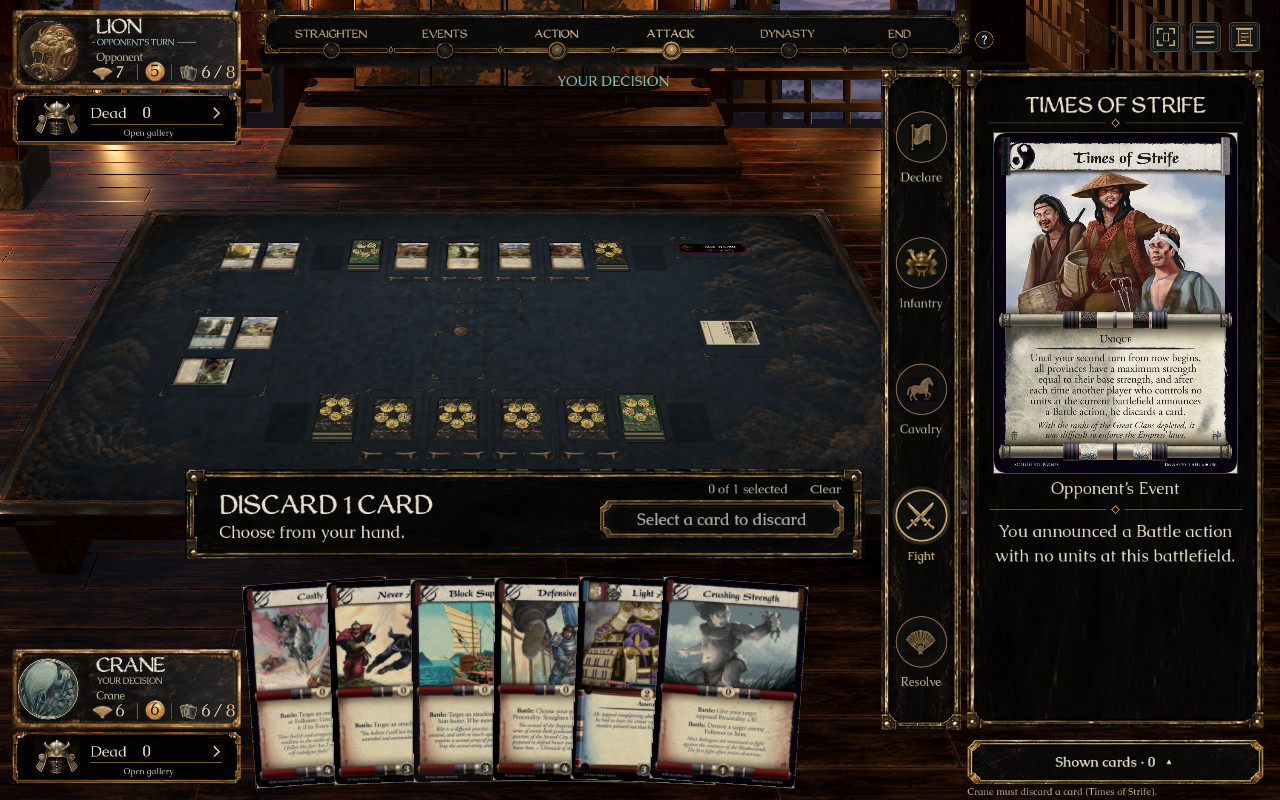
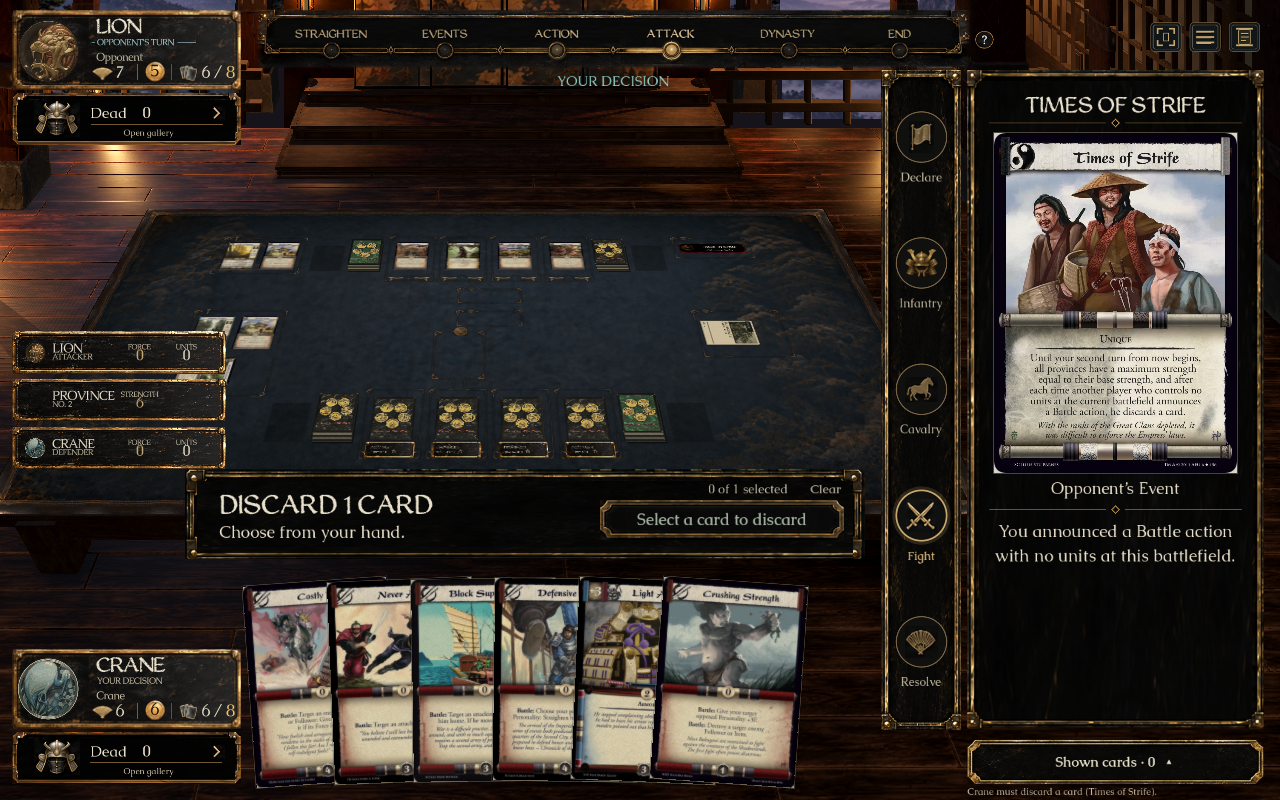
Direct play from the hand: confirm first, assume the single legal action, selectable action text
Selecting a playable hand card asks to confirm play; an automatic action then plays with
nothing else chosen, others continue to performer/target/payment. Cards with several legal
actions list each as clickable action text. Plans Within Plans' armed state is exposed to its
owner so its Limited action is assumed.

Claude-Session: https://claude.ai/code/session_01PrhtAooqPUJRqFmsAknmcR

Changed region(s): [[0.0, 0.4062, 0.1875, 0.5938], [0.2812, 0.5312, 0.4688, 0.5938]]

diff --git a/src/L5R.Client/Main.DirectPlay.cs b/src/L5R.Client/Main.DirectPlay.cs
@@ -1,0 +1,134 @@
+using Godot;
+using L5R.Core;
+
+namespace L5R.Client;
+
+/// <summary>One distinct action a selected card can legally take now. Variants differ only by performer, target or alternative cost.</summary>
+internal sealed record PlayChoice(string Key, ActionOption Option, ActionOption[] Variants);
+
+public partial class Main
+{
+    // The card and action the player is being asked to confirm. Held as a key, not an option, so a refreshed snapshot re-resolves it.
+    private (string CardId, string Key)? _playPrompt;
+
+    private static string PlayKey(ActionOption option) => option.Type + ":" + (option.Command?.AbilityId ?? option.AlternativeCost?.AbilityId ?? "");
+
+    private bool IsOwnHandCard(string? id) => id is not null && FindCard(id) is { Zone: Zone.Hand } card && card.OwnerId == View.ViewerId;
+
+    /// <summary>The distinct legal actions of a card. The engine already disables an action that is out of phase or lacks its performer, so an enabled option is a legal one.</summary>
+    private PlayChoice[] PlayChoices(CardView card) => Actions
+        .Where(a => a.Enabled && a.CardId == card.Id && a.Command is not null && a.Type is "equip" or "playStrategy" or "useAbility")
+        .GroupBy(PlayKey).Select(g => new PlayChoice(g.Key, g.First(), g.ToArray())).ToArray();
+
+    private static bool IsLimited(PlayChoice choice) =>
+        choice.Option.Command?.AbilityId is { } id && AbilityCatalog.All.TryGetValue(id, out var ability) && ability.Timing.Contains("Limited", StringComparison.Ordinal);
+
+    /// <summary>The action to assume: the only legal one, or, while Plans Within Plans is armed, the Limited action it permits. Otherwise the player picks.</summary>
+    private PlayChoice? AssumedPlay(PlayChoice[] choices)
+    {
+        if (choices.Length == 1) return choices[0];
+        if (View.Players.Single(p => p.Id == View.ViewerId).PlansWithinPlansArmed && choices.Count(IsLimited) == 1) return choices.Single(IsLimited);
+        return null;
+    }
+
+    /// <summary>Selecting a playable hand card starts the play flow without a trip through the sidebar's action list.</summary>
+    private void BeginDirectPlay(CardView card)
+    {
+        _playPrompt = null;
+        if (!IsOwnHandCard(card.Id) || card.ActionLocked || View.PendingChoice is not null || View.WinnerId is not null || View.PriorityPlayerId != View.ViewerId || _chosen is not null) return;
+        if (AssumedPlay(PlayChoices(card)) is { } choice) _playPrompt = (card.Id, choice.Key);
+    }
+
+    private void BeginPlayPrompt(ActionOption option)
+    {
+        if (option.CardId is null || _session.Busy || PresentationBusy) return;
+        _playPrompt = (option.CardId, PlayKey(option));
+        RenderInspector(); RenderPhaseActions(); Highlight();
+    }
+
+    private PlayChoice? PromptedChoice() =>
+        _playPrompt is { } prompt && FindCard(prompt.CardId) is { } card && IsOwnHandCard(card.Id) ? PlayChoices(card).FirstOrDefault(c => c.Key == prompt.Key) : null;
+
+    /// <summary>True when playing the action needs a performer, target, province, movement, cost payment or alternative cost. Otherwise confirming plays it outright.</summary>
+    private bool NeedsFurtherInput(PlayChoice choice)
+    {
+        var option = choice.Option;
+        return NeedsTargetPick(option) || option.TargetIds is { Length: > 0 } || option.Slots is not null || IsProvinceTarget(option) || option.Movement is not null
+            || HasAttackTargets(option) || option.Attack is not null || option.AlternativeCost is not null || option.Gold is { Cost: > 0 } || option.Gold is { Kind: GoldCostKind.Variable }
+            || option.TargetGold is not null || choice.Variants.Select(v => v.Command?.PerformerId).Distinct().Count() > 1 || option.Command?.CardIds is not null;
+    }
+
+    private bool RenderPlayPrompt()
+    {
+        if (PromptedChoice() is not { } choice || FindCard(_playPrompt!.Value.CardId) is not { } card) { _playPrompt = null; return false; }
+        var others = PlayChoices(card).Where(c => c.Key != choice.Key).ToArray();
+        var panel = new PanelContainer(); panel.AddThemeStyleboxOverride("panel", SidebarSkin.Inset());
+        var box = new VBoxContainer(); box.AddThemeConstantOverride("separation", 8); panel.AddChild(box); _inspector.AddChild(panel);
+        box.AddChild(Palette.Text("PLAY THIS CARD?", 12, Palette.Gold));
+        box.AddChild(Palette.Wrapped(card.Definition?.Name ?? "Card", 22));
+        box.AddChild(Palette.Wrapped(Placard(choice.Option), 17, Palette.Gold));
+        box.AddChild(Palette.Wrapped(NeedsFurtherInput(choice)
+            ? "Confirm to begin. You then choose any performer, target and payment."
+            : "Nothing else to choose. Confirm to play it.", 14, Palette.PaperDim));
+        foreach (var other in others)
+        {
+            var option = other.Option;
+            var switchTo = SidebarSkin.Button("Play instead: " + Placard(option), () => BeginPlayPrompt(option));
+            switchTo.AutowrapMode = TextServer.AutowrapMode.WordSmart; box.AddChild(switchTo);
+        }
+        var confirm = SidebarSkin.Button("Confirm play", ConfirmPlay, true); confirm.Disabled = _session.Busy;
+        _decisionActions.AddChild(confirm);
+        _decisionActions.AddChild(SidebarSkin.Button("Cancel", CancelChoice));
+        return true;
+    }
+
+    private void ConfirmPlay()
+    {
+        if (PromptedChoice() is not { } choice) { _playPrompt = null; RenderInspector(); return; }
+        _playPrompt = null;
+        if (!NeedsFurtherInput(choice) && choice.Option.Command is { } command) { _ = Submit(command); return; }
+        Choose(choice.Option);
+    }
+
+    /// <summary>A card with several legal actions lists each as a highlightable, clickable block under its printed text; a click begins that action.</summary>
+    private void AddActionTextBlocks(VBoxContainer details, CardView card)
+    {
+        if (_chosen is not null || _playPrompt is not null || View.PendingChoice is not null || !IsOwnHandCard(card.Id)) return;
+        var choices = PlayChoices(card);
+        if (choices.Length < 2) return;
+        details.AddChild(Palette.Text("CHOOSE AN ACTION", 11, Palette.Gold));
+        foreach (var choice in choices)
+        {
+            var option = choice.Option;
+            var block = new Button
+            {
+                Text = Placard(option),
+                Flat = false,
+                Alignment = HorizontalAlignment.Left,
+                AutowrapMode = TextServer.AutowrapMode.WordSmart,
+                FocusMode = Control.FocusModeEnum.None,
+                CustomMinimumSize = new Vector2(0, 40),
+                MouseDefaultCursorShape = Control.CursorShape.PointingHand,
+                TooltipText = "Click to play this action. You confirm before anything happens."
+            };
+            block.SetMeta("action_text_block", true);
+            block.AddThemeFontSizeOverride("font_size", 16);
+            foreach (var state in new[] { "normal", "pressed", "hover", "focus" })
+                block.AddThemeStyleboxOverride(state, new StyleBoxFlat
+                {
+                    BgColor = state == "hover" ? new Color(Palette.Gold, .16f) : new Color(1, 1, 1, .03f),
+                    BorderColor = state == "hover" ? Palette.Gold : new Color(Palette.Gold, .35f),
+                    BorderWidthLeft = 2,
+                    BorderWidthRight = 1,
+                    BorderWidthTop = 1,
+                    BorderWidthBottom = 1,
+                    ContentMarginLeft = 10,
+                    ContentMarginRight = 8,
+                    ContentMarginTop = 6,
+                    ContentMarginBottom = 6
+                });
+            block.Pressed += () => BeginPlayPrompt(option);
+            details.AddChild(block);
+        }
+    }
+}

diff --git a/src/L5R.Client/Main.DirectPlayCapture.cs b/src/L5R.Client/Main.DirectPlayCapture.cs
@@ -1,0 +1,82 @@
+using Godot;
+using L5R.Core;
+using System.Reflection;
+
+namespace L5R.Client;
+
+public partial class Main
+{
+    private bool _directPlayStarted;
+
+    private void ProcessDirectPlayCapture(double delta)
+    {
+        _captureClock += delta; if (_directPlayStarted || _captureClock < 1.5) return;
+        _directPlayStarted = true; _ = CheckDirectPlay();
+    }
+
+    private IEnumerable<Button> ActionTextBlocks() => _inspector.FindChildren("*", "Button", true, false).OfType<Button>().Where(b => b.HasMeta("action_text_block"));
+
+    private async Task LoadDirectPlay(Action<MatchState> build, int seat = 0)
+    {
+        var state = MatchEngine.CreatePublishedTestMatch(42).State;
+        foreach (var p in state.Players) { foreach (var id in p.Hand) state.Cards.Remove(id); p.Hand.Clear(); p.TurnsTaken = 2; }
+        state.ActivePlayerId = state.PriorityPlayerId = 0; state.PendingChoice = null;
+        build(state);
+        var engine = (MatchEngine)typeof(MatchEngine).GetMethod("FromTestState", BindingFlags.NonPublic | BindingFlags.Static)!.Invoke(null, [state])!;
+        await LoadSupportFixture(engine, seat);
+    }
+
+    private static void BattleSetup(MatchState state)
+    {
+        state.Phase = Phase.Battle; state.CurrentBattleProvince = 0; state.UnresolvedBattlefields = [0]; state.BattleNumber = 1;
+        SupportFixtureCard(state, 229, 0, Zone.Battlefield, 0);               // Akodo Kisho, unbowed Paragon
+        SupportFixtureCard(state, 3636, 1, Zone.Battlefield, 0);              // an enemy unit at the battlefield
+    }
+
+    private async Task CheckDirectPlay()
+    {
+        try
+        {
+            // 1. One legal, automatic action: selecting the card asks to confirm, and confirming plays it with nothing else chosen.
+            await LoadDirectPlay(s => { s.Phase = Phase.Action; SupportFixtureCard(s, 7862, 0, Zone.Hand); });
+            var tale = View.Players[0].Hand.Single();
+            var honor = View.Players[0].Honor;
+            SelectCard(tale); await EventFrames(4);
+            SupportRequire(_playPrompt is not null && _chosen is null, "Selecting a playable card did not ask to confirm play");
+            SupportRequire(StabilizationText(_inspector).Contains("PLAY THIS CARD?") && StabilizationText(_inspector).Contains("Nothing else to choose"), "Automatic action should say nothing else needs choosing");
+            var cancel = StabilizationButtons(_decisionActions).Single(b => b.Text == "Cancel"); cancel.EmitSignal(BaseButton.SignalName.Pressed); await EventFrames(2);
+            SupportRequire(_playPrompt is null && _chosen is null && View.Players[0].Honor == honor, "Cancel must back out without acting");
+            SelectCard(tale); await EventFrames(2);
+            await SupportClick(StabilizationButtons(_decisionActions).Single(b => b.Text == "Confirm play")); await WaitDecisionPresentation(); await EventFrames(6);
+            SupportRequire(View.Players[0].Honor == honor + 1 && _chosen is null, "Confirming Tell the Tale did not gain 1 Honor directly");
+
+            // 2. Two legal actions: the card lists both as clickable action text; a click asks to confirm, then continues to targets.
+            await LoadDirectPlay(s => { BattleSetup(s); SupportFixtureCard(s, 61, 0, Zone.Hand); });
+            var paragon = View.Players[0].Hand.Single();
+            SelectCard(paragon); await EventFrames(4);
+            var blocks = ActionTextBlocks().ToArray();
+            SupportRequire(_playPrompt is null && blocks.Length == 2, $"Two legal actions should be offered as selectable text, found {blocks.Length}: " + string.Join(" | ", Actions.Where(x => x.CardId == paragon.Id).Select(x => $"{x.Type}/{x.Command?.AbilityId}/{x.Enabled}/{x.Reason}")));
+            await SupportClick(blocks[0]); await EventFrames(2);
+            SupportRequire(_playPrompt is not null && _chosen is null, "Choosing an action's text should ask to confirm that action");
+            var first = PromptedChoice()!.Key;
+            StabilizationButtons(_decisionActions).Single(b => b.Text == "Cancel").EmitSignal(BaseButton.SignalName.Pressed); await EventFrames(2);
+            SupportRequire(_playPrompt is null && _chosen is null, "Cancel returns to the card");
+            SelectCard(paragon); await EventFrames(2);
+            ActionTextBlocks().ElementAt(1).EmitSignal(BaseButton.SignalName.Pressed); await EventFrames(2);
+            SupportRequire(_playPrompt is not null && PromptedChoice()!.Key != first, "The second action's text should select the second action");
+            await SupportClick(StabilizationButtons(_decisionActions).Single(b => b.Text == "Confirm play")); await EventFrames(4);
+            SupportRequire(_chosen is { Type: "useAbility" } && _playPrompt is null, "Confirming a targeted action continues into performer/target selection");
+
+            // 3. Only one of the card's two actions is legal (no unbowed Kensai): assume it, no choice of action.
+            await LoadDirectPlay(s => { BattleSetup(s); SupportFixtureCard(s, 5112, 0, Zone.Battlefield, 0, bowed: true); SupportFixtureCard(s, 5423, 0, Zone.Hand); });
+            var moving = View.Players[0].Hand.Single();
+            var legal = Actions.Where(a => a.Enabled && a.CardId == moving.Id).Select(a => a.Command?.AbilityId).Distinct().ToArray();
+            SelectCard(moving); await EventFrames(4);
+            SupportRequire(legal.Length == 1 && _playPrompt is not null && ActionTextBlocks().Count() == 0, $"With one legal action ({legal.Length}) it should be assumed");
+            SupportRequire(PromptedChoice()!.Option.Command!.AbilityId == "moving-unmoving-approach", "The legal first action should be the one assumed");
+            GD.Print("DIRECT_PLAY_PASS: confirm-first for an automatic action, two-action text selection with cancel, assumed single legal action.");
+            GetTree().Quit(0);
+        }
+        catch (Exception e) { GD.PushError(e.ToString()); GetTree().Quit(1); }
+    }
+}

diff --git a/src/L5R.Client/Main.Actions.cs b/src/L5R.Client/Main.Actions.cs
@@ -110,6 +110,7 @@ public partial class Main
             if (_selected.Dishonorable) details.AddChild(Palette.Wrapped("Dishonorable", 21, new Color("efaa9a")));
             if (_selected.StraightenBlocked) details.AddChild(Palette.Wrapped("Straightening is prevented for this turn.", 13, Palette.Gold));
             if (!string.IsNullOrWhiteSpace(def.Text)) details.AddChild(Palette.Wrapped(def.Text, 16, Palette.PaperDim));
+            AddActionTextBlocks(details, _selected);
             if (def.Type == CardType.Personality && (_selected.Force != def.Force || _selected.Chi != def.Chi)) details.AddChild(Palette.Wrapped($"Current: {_selected.Force} Force · {_selected.Chi} Chi", 16, Palette.Gold));
             if (_selected.AttachedTo is { } parent) details.AddChild(Palette.Wrapped("Attached to " + (FindCard(parent)?.Definition?.Name ?? parent), 13, Palette.Crane));
         }
@@ -125,6 +126,7 @@ public partial class Main
             help.MouseFilter = Control.MouseFilterEnum.Stop; help.TooltipText = RulesHelp.PhaseGuide(View.Phase);
             _inspector.AddChild(help);
         }
+        if (_playPrompt is not null && _chosen is null && RenderPlayPrompt()) return;
         if (_chosen is { Type: "purchase" or "recruitReserve", Quote: not null }) { RenderPurchase(); return; }
         if (_chosen is { Type: "attack" or "assignDefense" }) { RenderAssignments(); return; }
         if (_chosen is { Type: "useAbility", Command.CardIds: not null }) { RenderProvinceRefresh(); return; }
@@ -456,7 +458,7 @@ public partial class Main
         _decisionActions.AddChild(SidebarSkin.Button("Cancel selection", CancelChoice));
     }
 
-    private void CancelChoice() { ResetDecisionSelection(); SetNotice("Selection cancelled. No action was taken."); _selected = null; _chosen = null; _sources.Clear(); _assignments.Clear(); _assignmentUnit = null; RenderBoard(); RenderInspector(); RenderPhaseActions(); Highlight(); }
+    private void CancelChoice() { _playPrompt = null; ResetDecisionSelection(); SetNotice("Selection cancelled. No action was taken."); _selected = null; _chosen = null; _sources.Clear(); _assignments.Clear(); _assignmentUnit = null; RenderBoard(); RenderInspector(); RenderPhaseActions(); Highlight(); }
 
     private void AddAction(VBoxContainer container, ActionOption option)
     {
@@ -478,6 +480,7 @@ public partial class Main
         var button = SidebarSkin.Button(label, () =>
         {
             if (option.Type == "useAbility" && View.PendingChoice?.Type is "bowReaction" or "beforeActionReaction" && option.TargetIds is { Length: 0 } && option.Command is { } reaction && QuoteFor(option) is null) _ = Submit(reaction);
+            else if (_chosen is null && option.Type is "equip" or "playStrategy" or "useAbility" && IsOwnHandCard(option.CardId) && option.Command is not null) BeginPlayPrompt(option);
             else if (option.Type is "purchase" or "recruitReserve" or "equip" or "playStrategy" or "attack" or "assignDefense" or "discardHand" or "useAbility" or "chooseOpponentPayment") Choose(option);
             else if (option.Type == "discardProvince") ConfirmDiscardProvince(option);
             else if (option.Type == "endDynasty" && option.Command is { } endCommand && NeedsEndDynastyConfirmation())
@@ -518,7 +521,7 @@ public partial class Main
             return;
         }
         if (View.WinnerId is not null) return;
-        if (_chosen is not null || EventDecisionActive || GenericDecisionActive || EitherOrActive || OpponentPaymentActive || CopyDecisionActive || LookDecisionActive) return;
+        if (_chosen is not null || _playPrompt is not null || EventDecisionActive || GenericDecisionActive || EitherOrActive || OpponentPaymentActive || CopyDecisionActive || LookDecisionActive) return;
         _phaseActions.AddChild(new HSeparator());
         if (_session.Online && !_session.Connected)
         {

diff --git a/src/L5R.Client/Main.cs b/src/L5R.Client/Main.cs
@@ -174,6 +174,7 @@ public partial class Main : Node
         if (_capturePath is not null && _captureMode.StartsWith("published-decisions", StringComparison.Ordinal)) { ProcessDecisionCapture(delta); return; }
         if (_capturePath is not null && _captureMode.StartsWith("published-shown", StringComparison.Ordinal)) { ProcessShownCapture(delta); return; }
         if (_capturePath is not null && _captureMode.StartsWith("published-action-lock", StringComparison.Ordinal)) { ProcessActionLockCapture(delta); return; }
+        if (_capturePath is not null && _captureMode.StartsWith("published-direct-play", StringComparison.Ordinal)) { ProcessDirectPlayCapture(delta); return; }
         if (_capturePath is not null && _captureMode.StartsWith("published-paused-animation", StringComparison.Ordinal)) { ProcessPausedAnimationCapture(delta); return; }
         if (_capturePath is not null && _captureMode.StartsWith("published-province-target", StringComparison.Ordinal)) { ProcessProvinceTargetCapture(delta); return; }
         if (_capturePath is not null && _captureMode.StartsWith("published-search", StringComparison.Ordinal)) { ProcessSearchCapture(delta); return; }
@@ -614,13 +615,13 @@ public partial class Main : Node
         if (_chosen is not null) { SetNotice("That card is not a legal target. Cancel the current action to inspect it."); return; }
         if (_selected?.Id == card.Id) { DeselectCard(); return; }
         _selectedHomeReminder = null; HighlightHomeReminders();
-        _selected = card; _sources.Clear();
+        _selected = card; _sources.Clear(); _playPrompt = null;
         var assign = Actions.FirstOrDefault(a => a.Enabled && a.Type is "attack" or "assignDefense" && a.TargetIds?.Contains(card.Id) == true);
         if (assign is not null) { Choose(assign); _assignmentUnit = card.Id; RenderInspector(); Highlight(); return; }
         var purchase = Actions.FirstOrDefault(a => a.Type == "purchase" && a.CardId == card.Id && a.Enabled);
         var multiSlot = card.ProvinceIndex is int index && card.Zone == Zone.Province &&
             ProvincePresentation.Slots(View.Players.Single(p => p.Id == card.OwnerId).Provinces.Single(p => p.Index == index)).Length > 1;
-        if (purchase is not null && !multiSlot) Choose(purchase); else { RenderInspector(); RenderPhaseActions(); Highlight(); }
+        if (purchase is not null && !multiSlot) Choose(purchase); else { BeginDirectPlay(card); RenderInspector(); RenderPhaseActions(); Highlight(); }
     }
 
     private void Highlight()
@@ -705,7 +706,7 @@ public partial class Main : Node
         {
             SetNotice("Both players need to be connected before continuing."); return;
         }
-        _chosen = null; _sources.Clear(); _assignments.Clear(); _assignmentUnit = null;
+        _chosen = null; _playPrompt = null; _sources.Clear(); _assignments.Clear(); _assignmentUnit = null;
         Highlight();
         await _session.Submit(command);
     }

diff --git a/tests/L5R.Core.Tests/DirectPlayViewTests.cs b/tests/L5R.Core.Tests/DirectPlayViewTests.cs
@@ -1,0 +1,26 @@
+using L5R.Core;
+using static Batch336Support;
+
+internal static class DirectPlayViewTests
+{
+    public static void Run(TestRunner runner) => runner.Run("direct-play-view", [
+        ("Plans Within Plans armed state is shown only to its owner, and only at an Action Phase opportunity", ArmedFlag)
+    ]);
+
+    private static MatchEngine Engine(bool armed, Phase phase)
+    {
+        var s = MatchEngine.CreatePublishedTestMatch(42).State;
+        s.Phase = phase; s.ActivePlayerId = 1; s.PriorityPlayerId = 0; s.PendingChoice = null;
+        s.Players[0].PlansWithinPlansArmed = armed; s.Players[0].PlansWithinPlansSets = armed ? 1 : 0;
+        return MatchEngine.FromTestState(s);
+    }
+
+    private static void ArmedFlag()
+    {
+        var armed = Engine(true, Phase.Action);
+        Batch336Support.Check(armed.GetView(0).Players[0].PlansWithinPlansArmed, "the armed player sees it");
+        Batch336Support.Check(!armed.GetView(1).Players[0].PlansWithinPlansArmed, "the opponent's view does not reveal it");
+        Batch336Support.Check(!Engine(false, Phase.Action).GetView(0).Players[0].PlansWithinPlansArmed, "not armed");
+        Batch336Support.Check(!Engine(true, Phase.Battle).GetView(0).Players[0].PlansWithinPlansArmed, "outside the Action Phase there is no Open opportunity to replace");
+    }
+}

diff --git a/src/L5R.Client/Main.StabilizationCapture.cs b/src/L5R.Client/Main.StabilizationCapture.cs
@@ -113,7 +113,8 @@ public partial class Main
                 var cost = _captureMode.Contains("free") ? 0 : 2;
                 var option = Actions.Single(a => a.Type == "equip" && a.CardId == fixture.Source && a.Enabled);
                 Check(option.TargetIds!.Contains(fixture.Target), "Expected target missing from quoted group");
-                await StabilizationClick(StabilizationButton(option.Label));
+                Check(_playPrompt is not null, "Selecting the equipment did not ask to confirm play");
+                await StabilizationClick(StabilizationButton("Confirm play")); // direct play: confirm first, then choose the target and pay
                 ChooseTarget(fixture.Target!); await EventFrames();
                 var button = StabilizationButton(cost == 0 ? "Confirm action" : "Confirm action · 2 Gold");
                 Check(_chosen is not null && QuoteFor(_chosen)?.Cost == cost, "Client did not retain authoritative quote");

diff --git a/src/L5R.Core/MatchQueries.cs b/src/L5R.Core/MatchQueries.cs
@@ -63,7 +63,7 @@ public sealed partial class MatchEngine
                 Celestials: owned.Where(c => c.Zone == Zone.Celestial).Select(c => ViewCard(c)).ToArray(),
                 FocusCount: owned.Count(c => c.Zone == Zone.Focused),
                 Underneath: owned.Where(c => c.Zone == Zone.Underneath).Select(c => ViewUnder(c, playerId)).ToArray())
-            { HandLimit = HandLimitFor(player.Id), DynastyActionTaken = player.DynastyActionTaken }; // issue #503: The New Foundries
+            { HandLimit = HandLimitFor(player.Id), DynastyActionTaken = player.DynastyActionTaken, PlansWithinPlansArmed = player.Id == playerId && LimitedInsteadOfOpen(player.Id) }; // issue #503: The New Foundries
         }).ToArray();
         var duel = _state.PendingDuel;
         return new(ContentVersion, _scenario, _state.Version, _state.TurnNumber, playerId, _state.ActivePlayerId, _state.PriorityPlayerId,

diff --git a/src/L5R.Client/Main.CameraCapture.cs b/src/L5R.Client/Main.CameraCapture.cs
@@ -23,6 +23,7 @@ public partial class Main
          _captureMode.StartsWith("published-created-copy", StringComparison.Ordinal) && !_captureMode.EndsWith("-review", StringComparison.Ordinal) ||
          _captureMode.StartsWith("published-shown", StringComparison.Ordinal) && !_captureMode.Contains("review", StringComparison.Ordinal) ||
          _captureMode.StartsWith("published-action-lock", StringComparison.Ordinal) && !_captureMode.Contains("review", StringComparison.Ordinal) ||
+         _captureMode.StartsWith("published-direct-play", StringComparison.Ordinal) ||
          _captureMode.StartsWith("published-paused-animation", StringComparison.Ordinal) ||
          _captureMode.StartsWith("published-province-target", StringComparison.Ordinal) ||
          _captureMode.StartsWith("published-search", StringComparison.Ordinal) && !_captureMode.Contains("review", StringComparison.Ordinal) ||

diff --git a/src/L5R.Core/Models.cs b/src/L5R.Core/Models.cs
@@ -1464,6 +1464,8 @@ public sealed record PlayerView(int Id, string Name, string Clan, int Honor, int
     public HandLimitView? HandLimit { get; init; }
     /// <summary>True once this player bought, overlaid or discarded a province card since the current Dynasty Phase began (public; absent/false in older payloads).</summary>
     public bool DynastyActionTaken { get; init; }
+    /// <summary>True only in the owning seat's own view, while Plans Within Plans lets this player take a Limited action in place of an Open one right now. Lets a client treat that out-of-phase Limited action as the one being played.</summary>
+    public bool PlansWithinPlansArmed { get; init; }
 }
 public sealed record HandLimitModifier(string CardId, string CardName, int Amount);
 public sealed record HandLimitView(int Base, int Maximum, HandLimitModifier[] Modifiers);

diff --git a/src/L5R.Client/Main.Selection.cs b/src/L5R.Client/Main.Selection.cs
@@ -9,6 +9,7 @@ public partial class Main
         // Inspection is local presentation. Active game choices retain their
         // explicit Cancel action, so this cannot silently discard a draft.
         if (_chosen is not null || _session.Busy) return;
+        _playPrompt = null;
         _selected = null;
         _selectedHomeReminder = null;
         HighlightHomeReminders();

diff --git a/docs/decisions/2026-10-07-direct-play-from-hand.md b/docs/decisions/2026-10-07-direct-play-from-hand.md
@@ -1,0 +1,26 @@
+# Direct play from the hand
+
+Mendon's request (2026-10-07). Playing a card should start from selecting it, with the sidebar needed only when the choice is complex.
+
+## Flow
+
+1. **Select a playable hand card** (yours, with priority, no pending decision). The client reads the card's enabled actions from the engine and groups them by ability. Variants that differ only by performer, target or alternative cost are one action.
+2. **One legal action**: it is assumed. The sidebar shows "Play this card?" with the action text, **Confirm play** and **Cancel**. Confirmation always comes first.
+3. **After confirming**: if the action needs no performer, target, province, movement, Gold payment or alternative cost (Tell the Tale), confirming plays it. Otherwise the existing performer/target/payment panel opens, with its own final confirm and Cancel.
+4. **Several legal actions** (A Paragon's Strength): the card details list each as a highlightable block ("Choose an action"); pressing one asks to confirm that action. The sidebar's action buttons stay, and the confirm prompt offers "Play instead" for the others. Cancel backs out.
+5. **Which action is assumed** relies on the engine's own legality: an action that is out of phase, or lacks its performer (Moving and Unmoving's second action without an unbowed Kensai), is disabled, so only the legal one remains. While **Plans Within Plans** is armed (new `PlayerView.PlansWithinPlansArmed`, own seat only, Action Phase opportunity), the single Limited action it permits is assumed and the others stay switchable.
+
+## Contract
+
+`PlayerView.PlansWithinPlansArmed` is a read-only, optional (default false) flag shown only in the owning seat's own view. No command, legality or state change.
+
+## Readings and limits
+
+- "Confirm first" is read as a separate step before performer/target/payment selection; targeted actions therefore confirm twice (begin, then final).
+- Clickable action text is in the card-details text and the new action blocks in the sidebar. The action text printed on the card **scan** is an image with no text layout data, so it is not clickable. Hit regions over the scan would need that layout.
+- Province purchases keep their existing flow (selecting the card opens payment with its own confirm). In-play cards (Personality abilities) still inspect first; only hand cards start direct play.
+- Plans Within Plans is verified at the view-flag level in Core; its client path shares the one-legal-action code and is not driven natively.
+
+## Evidence
+
+Core `direct-play-view`; native `tools/check-direct-play-ui.sh` (Windows): Tell the Tale confirm-first, cancel without acting, direct Honor gain; A Paragon's Strength two selectable actions, cancel, switch, targeted continuation; Moving and Unmoving with only its first action legal assumed.

diff --git a/docs/decisions/README.md b/docs/decisions/README.md
@@ -81,3 +81,4 @@ interpretation this register's decision docs already settled.
 - [699, the "essence" follow-up: Read the Essence (spell-wave-56)](2026-10-06-699-essence.md) — proposed readings for the #699 follow-up (essence); Mendon's rulings applied, remaining readings to confirm.
 - [699, the "rings" cluster: how a Ring enters play (spell-wave-57, celestial-wave-29)](2026-10-06-699-rings.md) — proposed readings for the #699 follow-up (rings); Mendon's rulings applied, remaining readings to confirm.
 - [Battle placards](2026-10-07-battle-placards.md) — replaces #710's court rails: province placards, left-edge stack, katana when the province falls
+- [Direct play from the hand](2026-10-07-direct-play-from-hand.md) — select a playable card, confirm first, assume the single legal action, clickable action text when several
